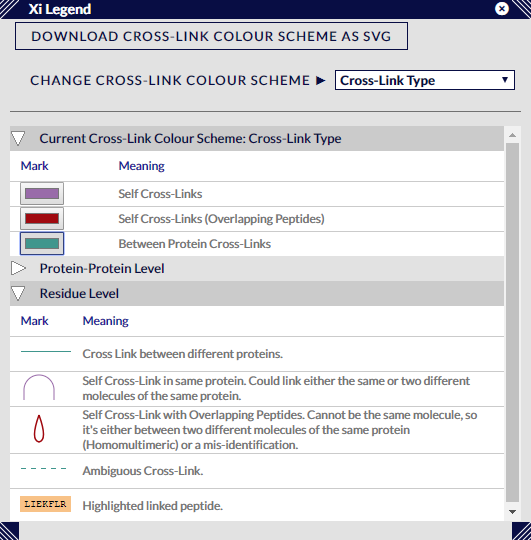
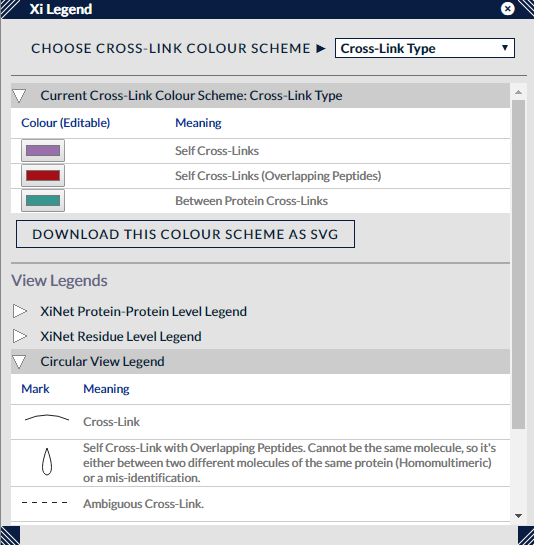
redone legend doc

diff --git a/html/views/legend.html b/html/views/legend.html
@@ -4,26 +4,27 @@
 <title>legend</title>
 <meta http-equiv="Content-Type" content="text/html; charset=utf-8" />
 <style type="text/css">
-@import url("/xidocs/docs.css");
+@import url("../../docs.css");
+@import url("../docs.css");
+@import url ("/xidocs/docs.css");
 </style>
 </head>
 <body>
 <h2>Xi Legend View</h2>
 <p><img src="../../img/legend.png" alt="Legend View" title="Xi Legend View" /></p>
-<p>This view shows both a table of representation styles used in the various xi views, and controls for changing and setting the active colour scheme used across the views.</p>
-<p>The bottom half of the display is taken up with three expandable segments, each of which can be expanded / contracted using the white triangle arrows to the left of each heading.</p>
-<p>The bottom two sections, &quot;Protein-Protein Level&quot; and &quot;Residue Level&quot; contain legends for the representation of two different scales of cross-link aggregation - the first for showing aggregated cross-links between  and within proteins, and the second for showing individual cross-links. The main points are that ambiguous cross-links are shown as dotted lines, and aggregated cross-link representations have a grey background whose width is proportional to the number of cross-links within the aggregation.</p>
-<p>The first section, &quot;Current Cross-Link Colour Scheme&quot; contains details of the colour scheme currently used across the views. The colours under the &quot;Mark&quot; column are interactive - pressing one will allow the selection of a bespoke colour for that category.</p>
+<p>This view shows controls for changing and setting the active colour scheme used across the views, along with a set of legends, one per view, to show the visual representations used in the Xi views and what they mean.</p>
 <h3>Options</h3>
-<p>The topmost button, &quot;Download Current Colour Scheme as SVG&quot;, downloads a small table of colours and categories in a vector format (SVG) that can be used to complement previously downloaded figures - as long as they use the same colour scheme.</p>
-<p>The dropdown &quot;Change Cross-Link Colour Scheme&quot; is used to change the current colour scheme, of which there are four defaults:</p>
+<p>The top control, the dropdown &quot;Choose Cross-Link Colour Scheme&quot;, is used to select the current colour scheme, of which there are four defaults:</p>
 <ol>
 <li>Cross-Link Type - colour links by between, self or homomultimeric status</li>
 <li>Protein-Protein Colouring - for small collections of proteins (up to 5) this will generate a unique colour for each possible protein-protein combination a between cross-link could have.</li>
-<li>Group - for aggregated searches, each cross-link will be assigned a group colour if it is unique to that search group, otherwise, if it is common to searches in more than one group, given a default &quot;Multiple Group&quot; colour. </li>
+<li>Group - for aggregated searches, each cross-link will be assigned a group colour if it is unique to that search group, otherwise, if it is common to searches in more than one group, given a default &quot;Multiple Group&quot; colour.</li>
 <li>Distance - when a PDB file is loaded, this colour scheme can be used to discriminate 'within distance', 'borderline' or 'overlong' cross-links. A range slider is also available in this scale to change the cutoff values.</li>
 </ol>
 <p>Other colour schemes become available when loading cross-link metadata. Each non-positional column in a cross-link metadata file will be converted to a colour scheme if possible, most usually to a scale between the minimum and maximum values in the column.</p>
+<p>Once selected, the details of a colour scheme appear underneath the dropdown in the section marked &quot;Current Cross-Link Colour Scheme&quot;. Within this is a small table of colours and a description of what values/categories of cross-link they represent. Generally, these colours are editable - clicking on the small coloured swatch in the Colour column will bring up a widget to change the colour for that category/value, and this change will be seen in any active Xi views. Some colour schemes are uneditable - those that have a specific colour set for each cross-link, though none of the default colour schemes come under this category.</p>
+<p>Underneath this section is a button, &quot;Download This Colour Scheme as SVG&quot;, which saves the colour scheme as a legend in a vector format (SVG) that can be used to complement previously downloaded figures - as long as they use the same colour scheme.</p>
+<p>The last part of the view consists of a section headed &quot;View Legends&quot; that includes a set of expandable/collapsible tables, each of which contain the legend for a particular view. These legends are deliberately mainly monochromatic - mostly the colouring will be decided by the colour scheme selection above - these sections rather describe the style of marks used to represent cross-links and other elements within each view.</p>
 <p>Lastly, like the other views that sit in sub-panels, this view can be resized by clicking on and dragging its corners, and repositioned by clicking on and dragging the title bar. The view can be closed using the X button next to the top right-hand corner.</p>
 
 </body>

diff --git a/md/views/legend.md b/md/views/legend.md
@@ -2,19 +2,12 @@
 
 ![Legend View](../../img/legend.png "Xi Legend View")
 
-This view shows both a table of representation styles used in the various xi views, and controls for changing and setting the active colour scheme used across the views.
+This view shows controls for changing and setting the active colour scheme used across the views, along with a set of legends, one per view, to show the visual representations used in the Xi views and what they mean.
 
-The bottom half of the display is taken up with three expandable segments, each of which can be expanded / contracted using the white triangle arrows to the left of each heading.
-
-The bottom two sections, "Protein-Protein Level" and "Residue Level" contain legends for the representation of two different scales of cross-link aggregation - the first for showing aggregated cross-links between  and within proteins, and the second for showing individual cross-links. The main points are that ambiguous cross-links are shown as dotted lines, and aggregated cross-link representations have a grey background whose width is proportional to the number of cross-links within the aggregation.
-
-The first section, "Current Cross-Link Colour Scheme" contains details of the colour scheme currently used across the views. The colours under the "Mark" column are interactive - pressing one will allow the selection of a bespoke colour for that category.
 
 ### Options ###
 
-The topmost button, "Download Current Colour Scheme as SVG", downloads a small table of colours and categories in a vector format (SVG) that can be used to complement previously downloaded figures - as long as they use the same colour scheme.
-
-The dropdown "Change Cross-Link Colour Scheme" is used to change the current colour scheme, of which there are four defaults:
+The top control, the dropdown "Choose Cross-Link Colour Scheme", is used to select the current colour scheme, of which there are four defaults:
 
 1. Cross-Link Type - colour links by between, self or homomultimeric status
 2. Protein-Protein Colouring - for small collections of proteins (up to 5) this will generate a unique colour for each possible protein-protein combination a between cross-link could have.
@@ -23,7 +16,15 @@ The dropdown "Change Cross-Link Colour Scheme" is used to change the current col
 
 Other colour schemes become available when loading cross-link metadata. Each non-positional column in a cross-link metadata file will be converted to a colour scheme if possible, most usually to a scale between the minimum and maximum values in the column.
 
+Once selected, the details of a colour scheme appear underneath the dropdown in the section marked "Current Cross-Link Colour Scheme". Within this is a small table of colours and a description of what values/categories of cross-link they represent. Generally, these colours are editable - clicking on the small coloured swatch in the Colour column will bring up a widget to change the colour for that category/value, and this change will be seen in any active Xi views. Some colour schemes are uneditable - those that have a specific colour set for each cross-link, though none of the default colour schemes come under this category.
+
+Underneath this section is a button, "Download This Colour Scheme as SVG", which saves the colour scheme as a legend in a vector format (SVG) that can be used to complement previously downloaded figures - as long as they use the same colour scheme.
+
+The last part of the view consists of a section headed "View Legends" that includes a set of expandable/collapsible tables, each of which contain the legend for a particular view. These legends are deliberately mainly monochromatic - mostly the colouring will be decided by the colour scheme selection above - these sections rather describe the style of marks used to represent cross-links and other elements within each view.
+
 Lastly, like the other views that sit in sub-panels, this view can be resized by clicking on and dragging its corners, and repositioned by clicking on and dragging the title bar. The view can be closed using the X button next to the top right-hand corner.
+
+
 
 
 
